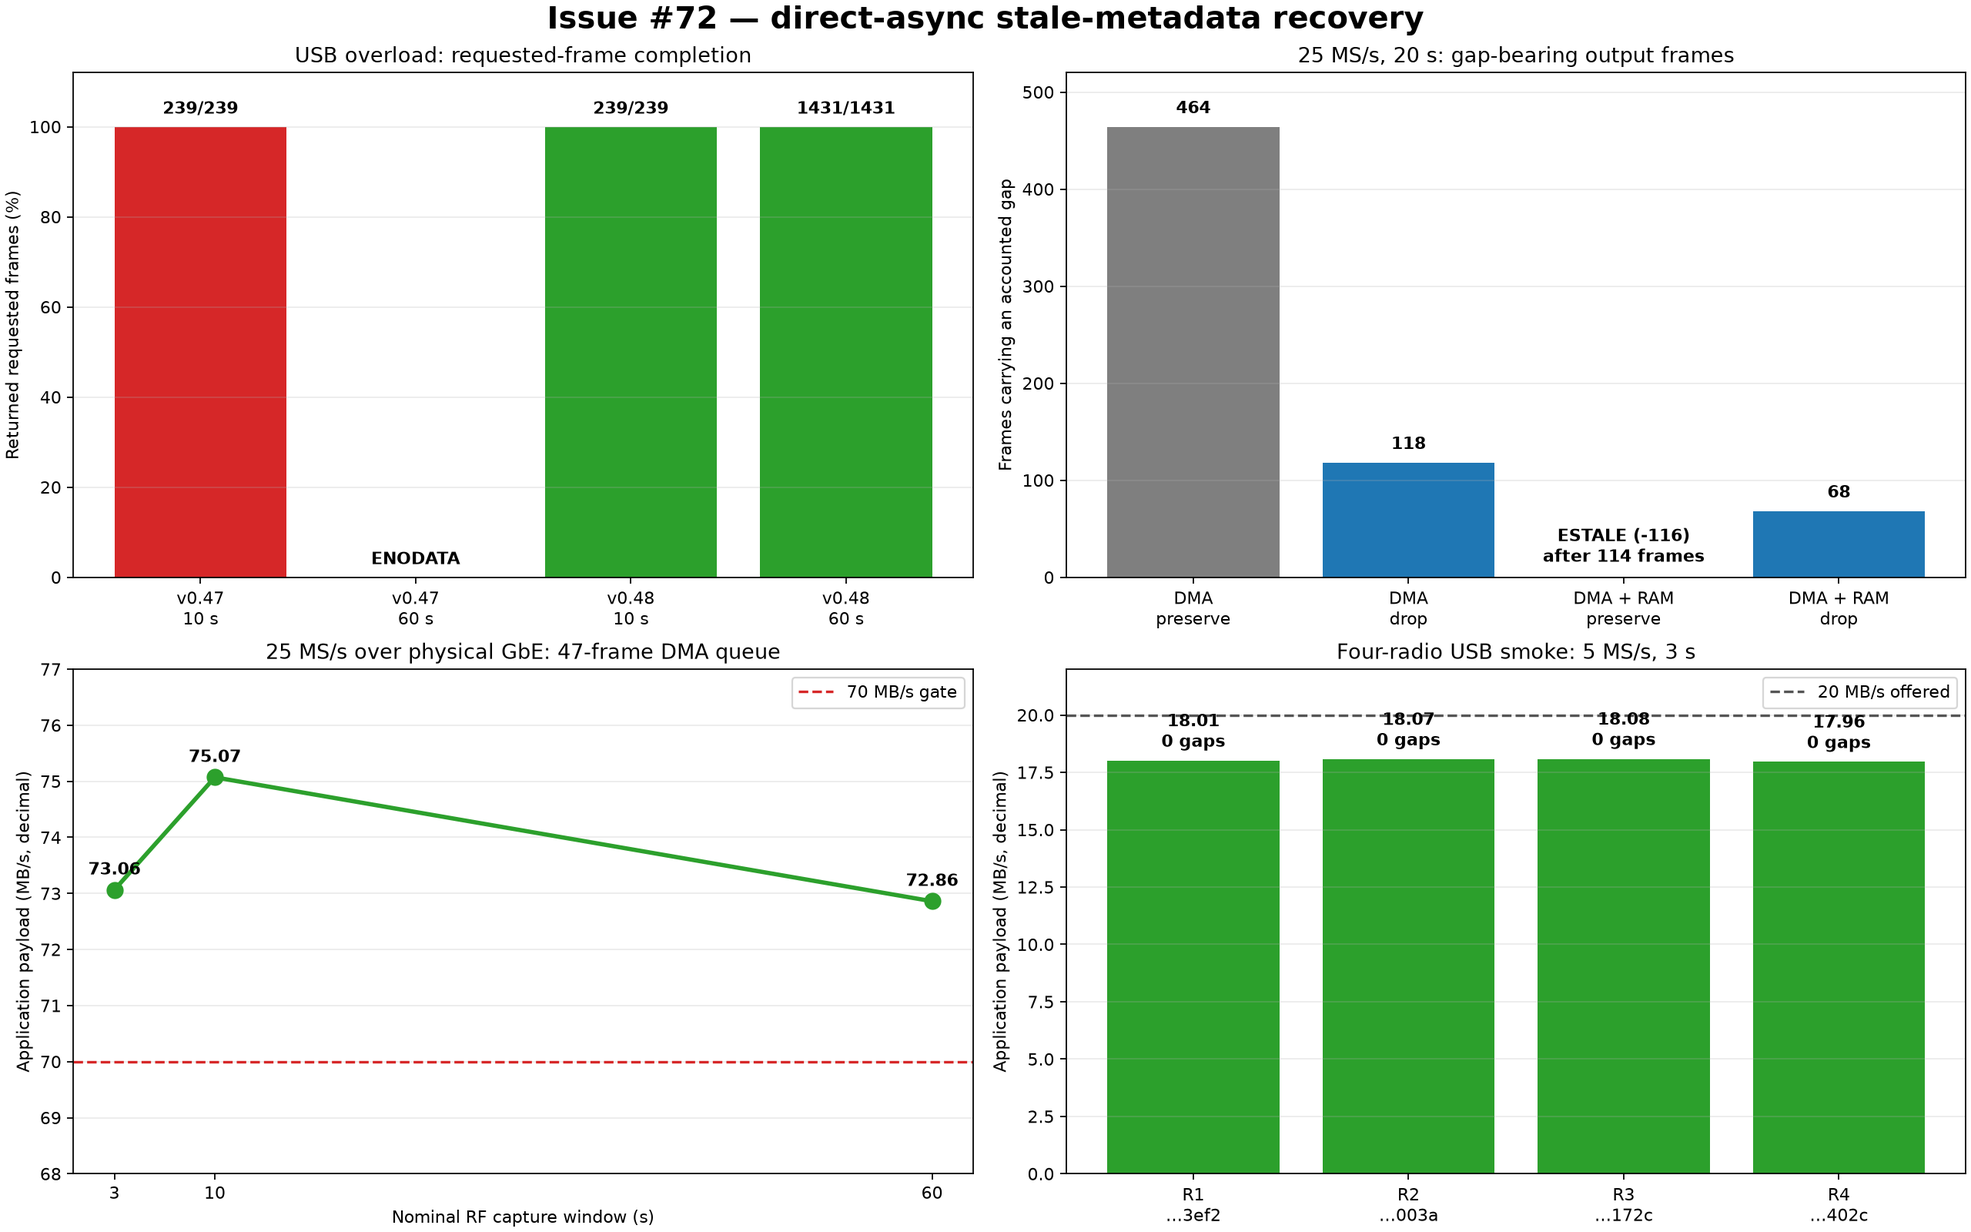
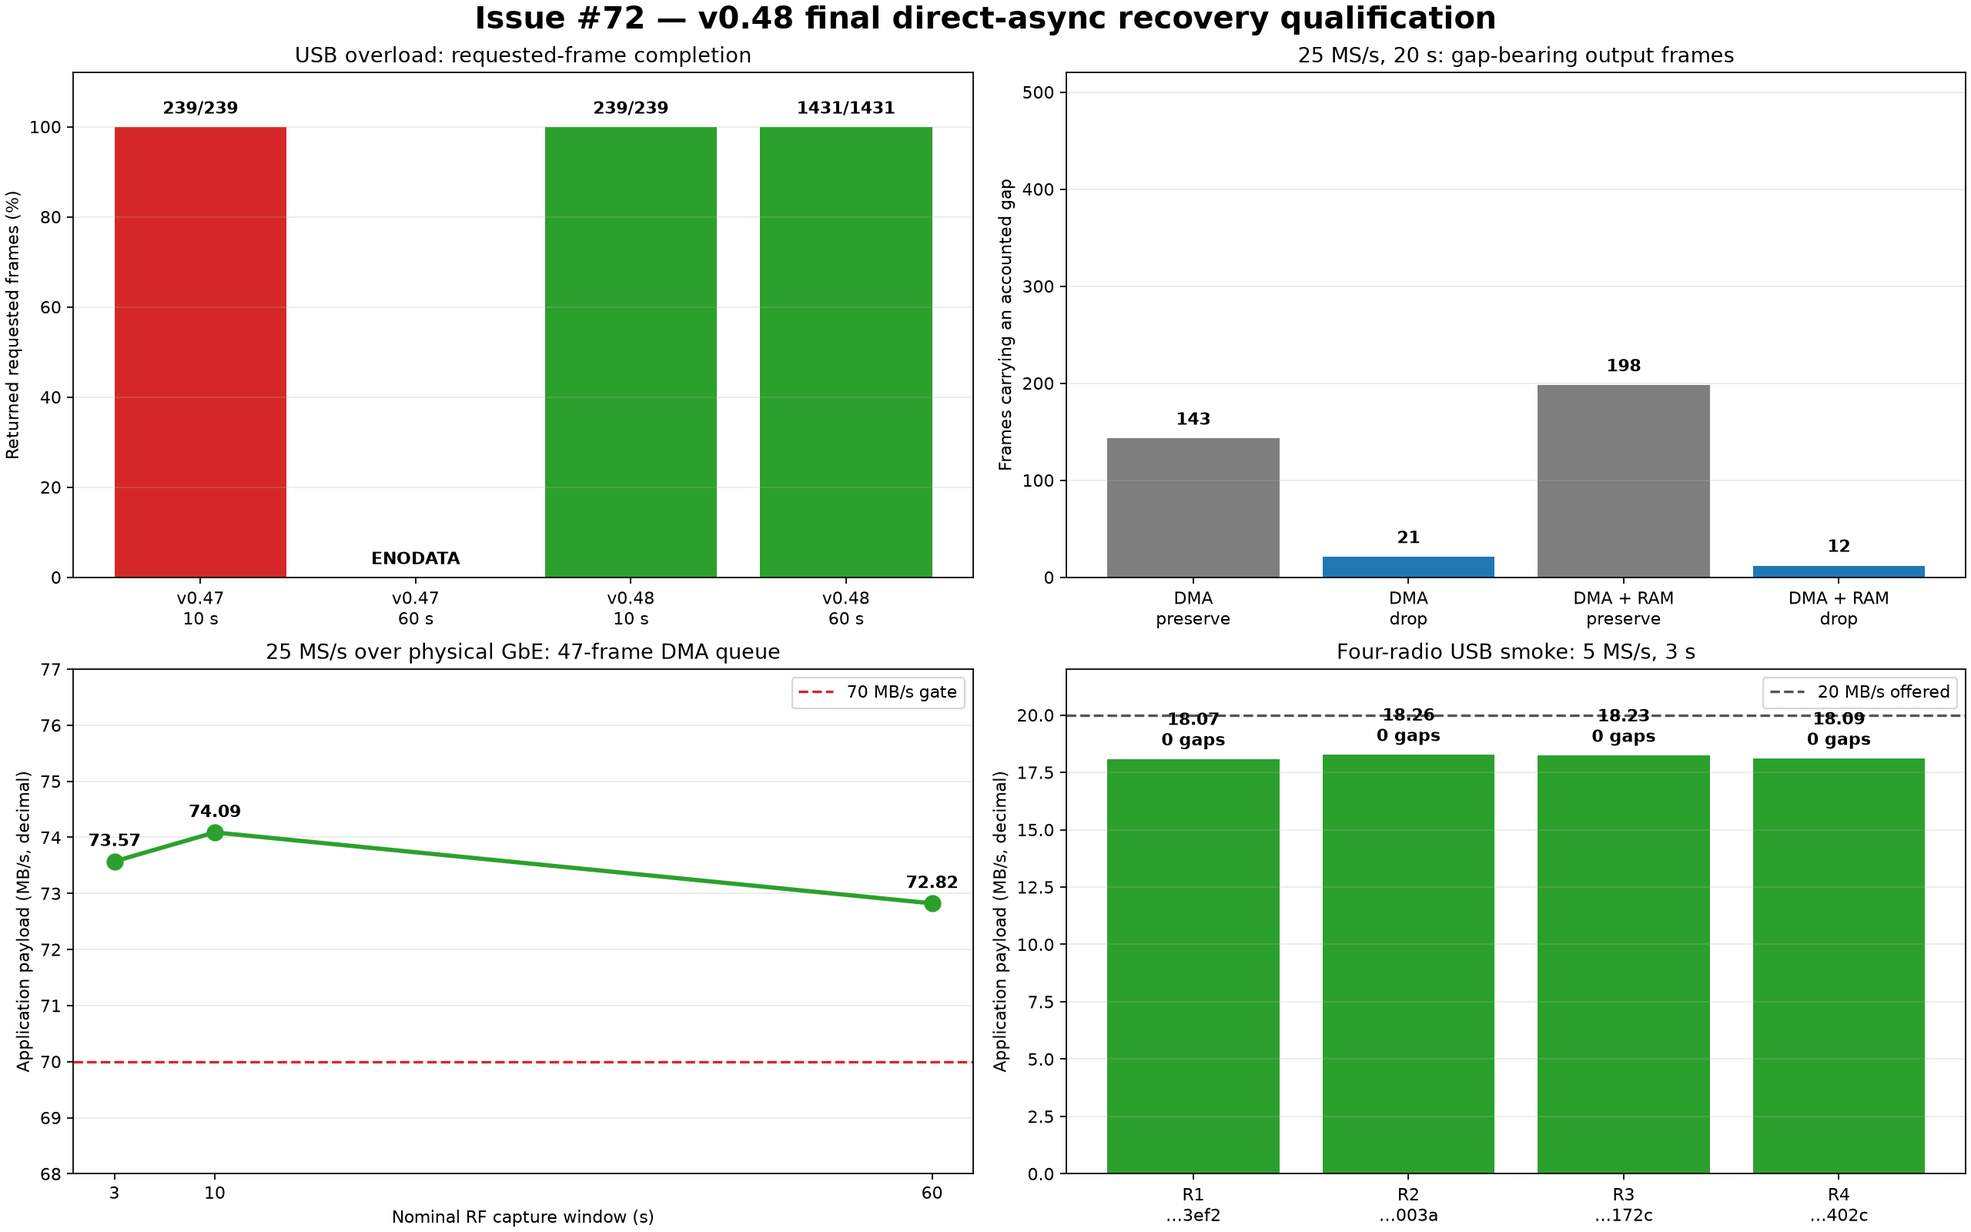
docs: publish direct async v3 final qualification

diff --git a/reports/2026-09-01-issue-72-direct-async-recovery/plot_recovery_summary.py b/reports/2026-09-01-issue-72-direct-async-recovery/plot_recovery_summary.py
@@ -15,7 +15,7 @@ DATA = json.loads((ROOT / "data.json").read_text())
 def main() -> None:
     figure, axes = plt.subplots(2, 2, figsize=(16, 10), constrained_layout=True)
     figure.suptitle(
-        "Issue #72 — direct-async stale-metadata recovery",
+        "Issue #72 — v0.48 final direct-async recovery qualification",
         fontsize=18,
         fontweight="bold",
     )

diff --git a/reports/2026-09-01-issue-72-direct-async-recovery/README.md b/reports/2026-09-01-issue-72-direct-async-recovery/README.md
@@ -2,13 +2,20 @@
 
 ## Outcome
 
-Firmware `v0.48-plutoplus-spf-iq-direct-async-v3` fixes the long-session
+Full release `v0.48-plutoplus-spf-iq-direct-async-v3` fixes the long-session
 `ENODATA` failure reproduced on v0.47. Under a deliberately overloaded USB
-Ethernet path, the candidate returned every requested frame in both 10-second
-and 60-second sessions. Over physical 1 GbE, the 47-frame direct DMA queue
-delivered 73.06, 75.07, and 72.86 MB/s for 3-, 10-, and 60-second 25 MS/s
-captures. The 60-second result is one 1,431-frame, 6.002 GB session; it did not
-segment or re-arm.
+Ethernet path, the implementation candidate returned every requested frame in
+both 10-second and 60-second sessions. The exact protected-main release bytes
+were then RAM-booted on four serial/path-bound radios and tested over physical
+1 GbE. The 47-frame direct DMA queue delivered 73.57, 74.09, and 72.82 MB/s for
+3-, 10-, and 60-second 25 MS/s captures. The 60-second result is one
+1,431-frame, 6.002 GB session; it did not segment, re-arm, or return `ENODATA`.
+
+After all volatile and performance gates passed, PPU persistently installed
+the same DFU/FIT bytes on `winbond-db6968136727402c`. The radio returned as
+v0.48/AD9361/TX-safe, `/dev/mtd3` matched the qualified FIT hash, a separate
+guarded reboot returned the same identity, and repeat reconciliation plus a
+gapless post-reboot capture passed.
 
 ![Issue 72 recovery summary](issue-72-recovery-summary.png)
 
@@ -46,20 +53,25 @@ the exact `error_code=-116` identifies `ESTALE`.
 
 | Component | Exact tested version |
 | --- | --- |
-| firmware integration | `322b67f9580d215c1f8362735c877f7c5ee2f89e` |
+| protected firmware build | `e3078376a6e1a8c6ea841dc69966b3880e020c70`; run `33481347855` |
+| recovery implementation ancestor | `322b67f9580d215c1f8362735c877f7c5ee2f89e` |
 | Buildroot/rootfs | `1c337a0b8d8126c9d1ed785607bc5ea52e7fed22` |
 | radio iiOD and host libiio | 0.25 at `0d323080a0a1067da8c7adbadfd03ee186a40ec2` |
 | PPU terminal-status/runtime pin | `7ff398aa67b36f5b5f3978153674c1b46c836110` |
 | PPU 200 MB DMA ladder guard | `7d412dfc60f7ad58601092b7332b21a74d5a3ff0` |
+| PPU exact release RAM profile | `1287462dca2dfd6d06ca192e3c8c37eabb64181a` |
+| PPU persistent promotion | `0a21ce250b44006a7880ae35dc30d11673fd2180` |
 | SPF metadata provider | ABI 3, `3294365ff44da26b261be4a2ccb241b7896d23ad` |
 | HDL | `145bd47e55d5c5537e0ba49d53cb25a5393f66ba` |
 | Linux | `93174a1c049ca6ee42f042dbe93f0fb06fbc9cd7` |
 | U-Boot | `1ff0468e9bea29b0a768a7bf52db8d025c521b9a` |
 
-The tested DFU SHA-256 is
[1 lines of base64/hex data omitted]
-its FIT body is
[1 lines of base64/hex data omitted]
+The release DFU is 12,825,587 bytes with SHA-256
[1 lines of base64/hex data omitted]
+its 12,825,571-byte FIT body is
[1 lines of base64/hex data omitted]
+The protected source tarball is SHA-256
[1 lines of base64/hex data omitted]
 The image reports `--rw-cpu-affinity 1`, which is the supervised equivalent of
 the historical `iiod -r 1` shorthand.
 
@@ -92,19 +104,22 @@ The USB link intentionally cannot keep pace. Success here means that v0.48
 kept one direct session alive, returned the finite target, and accounted for
 loss instead of aborting.
 
-## Twenty-second policy matrix
+## Twenty-second final-byte policy matrix
 
 | Queue | Policy | Result | Gap frames | Missing samples | Payload |
 | --- | --- | --- | ---: | ---: | ---: |
-| 11 DMA | preserve | 477/477 | 464 | 1,715,470,336 | 22.053 MB/s |
-| 11 DMA | drop | 477/477 | 118 | 1,734,344,704 | 21.981 MB/s |
-| 11 DMA + 128 MiB RAM | preserve | **`ESTALE` after 114 frames** | — | — | — |
-| 11 DMA + 128 MiB RAM | drop | **477/477** | 68 | 1,880,096,768 | 19.659 MB/s |
+| 11 DMA | preserve | 477/477 | 143 | 153,092,096 | 75.016 MB/s |
+| 11 DMA | drop | 477/477 | 21 | 178,257,920 | 72.779 MB/s |
+| 11 DMA + 128 MiB RAM | preserve | 477/477 | 198 | 213,909,504 | 65.606 MB/s |
+| 11 DMA + 128 MiB RAM | drop | 477/477 | 12 | 298,844,160 | 60.311 MB/s |
 
-Ringless drop mode reduced the number of gap-bearing frames by 74.6%. With RAM,
-drop mode converted a terminal preserve failure into a complete capture. It did
-not reduce missing sample count: dropping the stale queue intentionally creates
-fewer, larger discontinuities and returns to fresher RF time sooner.
+Ringless drop mode reduced the number of gap-bearing frames by 85.3%. With RAM,
+it reduced them by 93.9%. Every final-byte run returned all 477 requested
+frames. Drop mode did not reduce missing sample count: retiring the stale queue
+intentionally creates fewer, larger discontinuities and returns to fresher RF
+time sooner. The RAM preserve run filled all 32 slots and drained all 365
+spilled frames. RAM drop spilled 357, drained 155, and explicitly retired 202;
+`spilled = drained + dropped`.
 
 RAM slots extend the existing ordered queue. They do not create a second DMA
 session, and reaching RAM high-water does not clear the in-flight TCP frame or
@@ -124,9 +139,9 @@ commit `7d412df` replaces an obsolete 64 MiB host-only guard and still rejects
 
 | Window | Returned | Payload | Gap frames | Missing samples |
 | ---: | ---: | ---: | ---: | ---: |
-| 3 s | 72/72 | **73.063 MB/s** | 2 | 20,971,520 |
-| 10 s | 239/239 | **75.070 MB/s** | 7 | 72,351,744 |
-| 60 s | 1,431/1,431 | **72.860 MB/s** | 53 | 550,502,400 |
+| 3 s | 72/72 | **73.571 MB/s** | 2 | 20,971,520 |
+| 10 s | 239/239 | **74.088 MB/s** | 7 | 73,400,320 |
+| 60 s | 1,431/1,431 | **72.823 MB/s** | 53 | 552,599,552 |
 
 Example PPU-only performance command for a newly flashed radio:
 
@@ -152,17 +167,37 @@ For the complete lower-rate ladder, replace `--rates 25M` with
 
 ## Fleet and compatibility checks
 
-The exact DFU was RAM-booted with PPU on four serial/path-bound local USB
-radios. Every receipt attested v0.48, AD9361, and TX-safe state without writing
-QSPI. Each radio then returned 15/15 frames at 5 MS/s over USB with zero gaps,
-zero missing samples, and zero overflow; payload rates ranged from 17.956 to
-18.083 MB/s.
+The exact protected-build DFU was RAM-booted with PPU on four serial/path-bound
+local USB radios. Every receipt attested v0.48, AD9361, and TX-safe state
+without writing QSPI. Each radio then returned 15/15 frames at 5 MS/s over its
+isolated USB Ethernet route with zero gaps, zero missing samples, and zero
+overflow; payload rates ranged from 18.070 to 18.259 MB/s.
 
 On serial `winbond-db6968136727402c`, ordinary dual-RX capture kept pace at
 2.5 and 5 MS/s (20.012 and 40.046 MB/s). A bounded PPU Fast Lock probe tuned
 ordinary and volatile-profile paths between 2.4 and 5.8 GHz, verified the
 5.8 GHz ordinary readback, kept TX muted, and restored the exact original RF
 settings.
+
+## Persistent installation and reboot evidence
+
+PPU profile `iq-direct-async-v3-release-persistent-promotion` authorized only
+the exact final DFU/FIT hashes above. A serial/path-bound mass-storage flash on
+`winbond-db6968136727402c` completed all write, sync, eject, disappearance,
+return, identity, and TX-safe phases under receipt
+`016eb590-5fb4-42e3-9568-afe0f4d4254c`.
+
+Read-only reconciliation hashed exactly 12,825,571 bytes from `/dev/mtd3` and
+matched `db777a…d1df`. Guarded reboot receipt
+`7605359b000b474994626df2e602691b` then proved same-topology return as v0.48
+with AD9361, paired RX, tandem AGC, and muted TX. Because Pluto generates SSH
+host keys at boot, PPU enrolled a new serial-specific key after return and
+repeated `/dev/mtd3` reconciliation. The final post-reboot 5 MS/s test returned
+15/15 frames at 19.026 MB/s with zero gaps.
+
+This is a persistent software-reboot qualification. It is not described as an
+all-power-removed cold boot; the v0.47 release remains the independently
+cold-boot-qualified rollback image.
 
 ## Reproduction and retained data
 
@@ -178,3 +213,7 @@ uv run --with matplotlib python \
 Raw PPU reports and serial-bound deployment/isolation receipts remain in the
 private qualification archive. They are intentionally not copied into the
 public repository because they contain host topology and local absolute paths.
+Canonical report hashes include `162dd057…65d` for the physical-GbE 3/10/60 s
+gate, `88680d86…34b` for the RAM ladder, `f33fa412…24d2` / `2bd524e9…b74e` /
+`0d77b56f…64a3` / `963a60f8…97ed` for the four-way matrix, and
+`e8659e0e…f096` / `bd427436…faec` for persistent flash and reboot receipts.

diff --git a/docs/METADATA_CAPTURE_RUNTIME.md b/docs/METADATA_CAPTURE_RUNTIME.md
@@ -11,10 +11,10 @@ not make continuity observable and must not be accepted as a fallback.
 | --- | --- | --- | --- |
 | `iio,buffer-metadata=1` | strict `RadioMetadataV3` | `spf-frame-metadata-source/v0.25-final-v3` | `c26258bfa33098c2b215e19cf85d448e89499b1a` |
 | `iio,buffer-metadata=2` | strict `RadioMetadataV5` | `tandem-agc-v8-rc2-source/libiio-v1` | `6305ea1d43436ff8bdd83aa6c9e5abf7244aa5f7` |
-| `iio,buffer-metadata=3` | strict `RadioMetadataV6` | `iq-direct-async-v2-source/libiio-v1` | `8f66f353c9a70a5524988ceb588b0e9271c2390d` |
+| `iio,buffer-metadata=3` | strict `RadioMetadataV6` | `iq-direct-async-v3-source/libiio-v1` | `0d323080a0a1067da8c7adbadfd03ee186a40ec2` |
 | `iio,buffer-metadata=3` plus `iio,buffer-metadata-abi-versions=1,2,3,4` | strict `RadioMetadataV7` selected as ABI 4 | gain-timeline v8 release source | frozen by the release candidate plan |
 
-The released direct-async v2 firmware advertises ABI 3. Radios still running an
+The released direct-async v3 firmware advertises ABI 3. Radios still running an
 older release may advertise ABI 1 or 2; the host must select from the radio's
 attested capabilities rather than choosing a newer parser only because it is
 available.
@@ -95,21 +95,21 @@ result; pass `--tandem-mode auto` to exercise both systems together.
 
 ### ABI-3 direct async and RAM queue extension
 
-The `iq-direct-async-v2-source` runtime adds one finite direct mode to ABI 3,
+The `iq-direct-async-v3-source` runtime adds one finite direct mode to ABI 3,
 allows its target to span as many as 4,096 frames without re-arming, and makes
 radio-side overrun handling explicit. The hardware-test package set is:
 
 | Component | Exact released version | Qualified source commit |
 | --- | --- | --- |
-| persistent firmware | `v0.47-plutoplus-spf-iq-direct-async-v2` | `2bab87dcd9b18c8f957ae781603e88160c8509cc` |
-| firmware Buildroot/rootfs | `iq-direct-async-v2-source/buildroot-v1` | `3e1dd15acf361cc06e202e9e59e907dd379a13c3` |
+| persistent firmware | `v0.48-plutoplus-spf-iq-direct-async-v3` | protected build `e3078376a6e1a8c6ea841dc69966b3880e020c70`; implementation ancestor `322b67f9580d215c1f8362735c877f7c5ee2f89e` |
+| firmware Buildroot/rootfs | `iq-direct-async-v3-source/buildroot-v1` | `1c337a0b8d8126c9d1ed785607bc5ea52e7fed22` |
 | firmware Linux / CMA geometry | `ddr-burst-v1-rc3-source/linux-v1` | `93174a1c049ca6ee42f042dbe93f0fb06fbc9cd7` |
-| radio iiOD and host libiio | 0.25 / `iq-direct-async-v2-source/libiio-v1` | `8f66f353c9a70a5524988ceb588b0e9271c2390d` |
+| radio iiOD and host libiio | 0.25 / `iq-direct-async-v3-source/libiio-v1` | `0d323080a0a1067da8c7adbadfd03ee186a40ec2` |
 | radio metadata provider | ABI 3 / `RadioMetadataV6` | `3294365ff44da26b261be4a2ccb241b7896d23ad` |
-| Pluto Plus Utils | 0.1.0, Python 3.11+ | `9f9a2bd6d059833bc7d9259a48eabff8e20642ad` or later |
+| Pluto Plus Utils | 0.1.0, Python 3.11+ | persistent v3 profile `0a21ce250b44006a7880ae35dc30d11673fd2180` or later |
 
 Both the native host library and Python binding must be generated from the
-same `8f66f35` tree. The ABI-3 runtime receipt deliberately rejects older
+same `0d32308` tree. The ABI-3 runtime receipt deliberately rejects older
 ABI-3 libiio commits, upstream libiio, and a PyPI-only binding.
 
 Ringless direct mode requires `iio,buffer-direct-async=1`. The producer leases
@@ -221,12 +221,12 @@ until the target completes, and there is no periodic request re-arm.
 Counter-observed gaps remain evidence in a completed speed cell, while
 protocol, readback, cleanup, or capture failures make the command exit nonzero.
 
-The immutable `iq-direct-async-v2-source/libiio-v1` ref supplies the matched
+The immutable `iq-direct-async-v3-source/libiio-v1` ref supplies the matched
 host runtime. Early comparison runs used a volatile iiOD/library overlay on the
 version-stamped CMA prototype; those results are historical prototype evidence,
-not installation artifacts. The persistent image containing exact `8f66f35` is
+not installation artifacts. The persistent image containing exact `0d32308` is
 now published as
-[`v0.47-plutoplus-spf-iq-direct-async-v2`](https://github.com/misko/plutosdr-fw/releases/tag/v0.47-plutoplus-spf-iq-direct-async-v2).
+[`v0.48-plutoplus-spf-iq-direct-async-v3`](https://github.com/misko/plutosdr-fw/releases/tag/v0.48-plutoplus-spf-iq-direct-async-v3).
 Its firmware source requirements, submodule commits, binary hashes, guarded
 installation steps, and rollback rules are recorded in
 [`IIO_DIRECT_ASYNC_INSTALL.md`](https://github.com/misko/plutosdr-fw/blob/main/IIO_DIRECT_ASYNC_INSTALL.md).

diff --git a/README.md b/README.md
@@ -114,14 +114,14 @@ must be installed with the Python binding from the same source commit. ABI 1
 uses SPF libiio 0.25 tag `spf-frame-metadata-source/v0.25-final-v3` at
 `c26258bfa33098c2b215e19cf85d448e89499b1a`. The released direct-async/RAM-extension
 ABI-3 runtime requires libiio 0.25 commit
-`8f66f353c9a70a5524988ceb588b0e9271c2390d` and tag
-`iq-direct-async-v2-source/libiio-v1`. This revision keeps as many as 4,096
-frames in one finite direct-async session and adds the explicit
-`drop_backlog_on_overrun` policy; ordinary metadata batching remains limited
-to 64. Full persistent firmware release
-[`v0.47-plutoplus-spf-iq-direct-async-v2`](https://github.com/misko/plutosdr-fw/releases/tag/v0.47-plutoplus-spf-iq-direct-async-v2)
-contains the matched radio runtime. The installer must fail rather than use an
-older ABI-3 build. See
+`0d323080a0a1067da8c7adbadfd03ee186a40ec2` and tag
+`iq-direct-async-v3-source/libiio-v1`. It keeps as many as 4,096 frames in one
+finite session, exposes both overrun policies, and recovers stale metadata in
+drop-backlog mode without ending the host request; ordinary metadata batching
+remains limited to 64. Full persistent firmware release
+[`v0.48-plutoplus-spf-iq-direct-async-v3`](https://github.com/misko/plutosdr-fw/releases/tag/v0.48-plutoplus-spf-iq-direct-async-v3)
+contains the matched radio runtime. The installer fails closed on an older
+ABI-3 build. See
 [`docs/METADATA_CAPTURE_RUNTIME.md`](docs/METADATA_CAPTURE_RUNTIME.md) for the
 complete matrix and status.
 
@@ -1046,8 +1046,8 @@ For a network-only radio whose key was enrolled as above, `firmware flash-lan`
 provides a standalone, receipt-bound persistent update. It accepts only a literal
 private IPv4 address, one exact serial, and an immutable hardware-qualified
 persistent profile. The current full direct-async/RAM-extension release uses
-profile `iq-direct-async-v2-release-persistent-promotion` and exact firmware
-release `v0.47-plutoplus-spf-iq-direct-async-v2`.
+profile `iq-direct-async-v3-release-persistent-promotion` and exact firmware
+release `v0.48-plutoplus-spf-iq-direct-async-v3`.
 
 Create a read-only plan first:
 
@@ -1055,7 +1055,7 @@ Create a read-only plan first:
 uv run pluto firmware flash-lan /absolute/path/to/qualified-pluto.dfu \
   --serial EXACT_SERIAL \
   --host 192.168.1.20 \
-  --profile iq-direct-async-v2-release-persistent-promotion \
+  --profile iq-direct-async-v3-release-persistent-promotion \
   --ssh-known-hosts-file /private/EXACT_SERIAL.lan-20.known_hosts
 ```
 
@@ -1067,7 +1067,7 @@ option for a hidden prompt):
 uv run pluto firmware flash-lan /absolute/path/to/qualified-pluto.dfu \
   --serial EXACT_SERIAL \
   --host 192.168.1.20 \
-  --profile iq-direct-async-v2-release-persistent-promotion \
+  --profile iq-direct-async-v3-release-persistent-promotion \
   --ssh-known-hosts-file /private/EXACT_SERIAL.lan-20.known_hosts \
   --ssh-password-file /private/radio.password \
   --receipt-directory /private/lan-flash-receipts \

diff --git a/docs/FLASHING_AND_DOCTOR.md b/docs/FLASHING_AND_DOCTOR.md
@@ -13,7 +13,7 @@ automatic upgrade or downgrade decision.
 | Consumer | Selected profile | Persistent release |
 | --- | --- | --- |
 | Pluto+ Utils standard libiio USB/IP | `libiio-continuous-metadata` | `v0.39-plutoplus-spf-libiio-metadata-v6` |
-| Pluto+ Utils direct-async ABI 3 | `iq-direct-async-v2-release` | `v0.47-plutoplus-spf-iq-direct-async-v2` |
+| Pluto+ Utils direct-async ABI 3 | `iq-direct-async-v3-release` | `v0.48-plutoplus-spf-iq-direct-async-v3` |
 | Rover direct-USB V7 production | Rover YAML policy | currently RC16; do not use this as Pluto+ Utils' latest |
 
 The standard metadata profile remains pinned to the release published on 2026-08-17:
@@ -29,13 +29,14 @@ survived QSPI reboot. The radio advertises `iio,buffer-metadata=1`; consuming th
 metadata records also requires one of the separately patched host libiio builds.
 Ordinary IQ reads remain compatible.
 
-The direct-async ABI-3 profile is a separate, full release published on
-2026-08-31. It requires matched libiio 0.25 commit
-`8f66f353c9a70a5524988ceb588b0e9271c2390d` on the radio and host, supports a
-single DMA session of up to 4,096 frames, and optionally extends the same queue
-with 200 MB of RAM. Its release assets, checksums, exact component pins, and
+The direct-async ABI-3 profile is a separate full release. V0.48 requires
+matched libiio 0.25 commit
+`0d323080a0a1067da8c7adbadfd03ee186a40ec2` on the radio and host, supports a
+single DMA session of up to 4,096 frames, optionally extends the same queue
+with 200 MB of RAM, and makes stale metadata recoverable in drop-backlog mode.
+Its assets, checksums, exact component pins, qualification report, and
 installation guide are in
-[`v0.47-plutoplus-spf-iq-direct-async-v2`](https://github.com/misko/plutosdr-fw/releases/tag/v0.47-plutoplus-spf-iq-direct-async-v2).
+[`v0.48-plutoplus-spf-iq-direct-async-v3`](https://github.com/misko/plutosdr-fw/releases/tag/v0.48-plutoplus-spf-iq-direct-async-v3).
 
 ## What `doctor` checks
 
@@ -421,8 +422,8 @@ the exact managed IIO serial and an out-of-band verified SSH host key. Only key-
 root SSH is accepted. Discovery does not enroll a radio.
 
 The selected persistent-upgrade policy for the current direct-async release is
-`iq-direct-async-v2-release-persistent-promotion`, which binds the published
-`v0.47-plutoplus-spf-iq-direct-async-v2` DFU/FIT bytes. This is deliberately separate
+`iq-direct-async-v3-release-persistent-promotion`, which binds the published
+`v0.48-plutoplus-spf-iq-direct-async-v3` DFU/FIT bytes. This is deliberately separate
 from the older canonical setup-repair policy: repairing the U-Boot tuple must not
 silently choose a firmware upgrade, and selecting the current release must not
 weaken the setup transaction.
